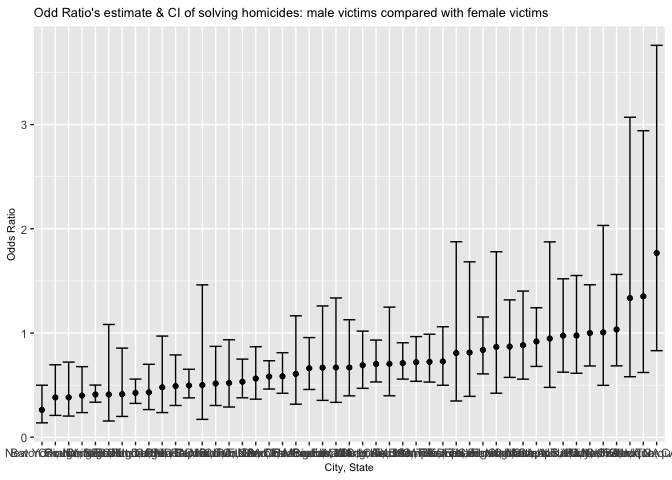
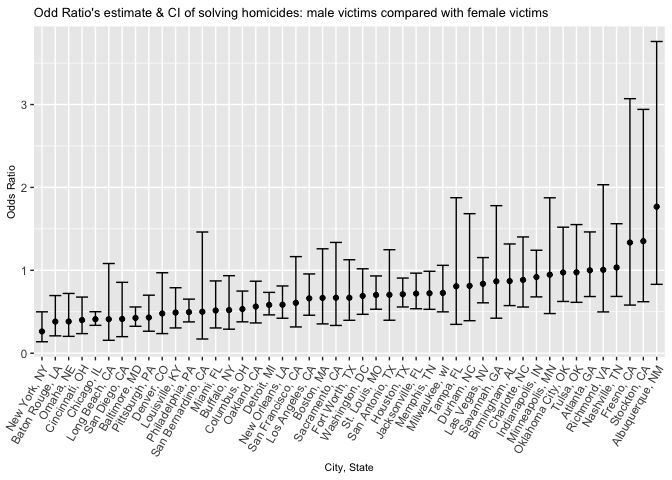
The x axis seemed to be a bit unclear, so I revided the parameter of the x axis in theme(), and updated the plot.

diff --git a/p8105_hw6_sc5154.md b/p8105_hw6_sc5154.md
@@ -116,9 +116,9 @@ homicide_df =
   filter(!(city_state %in% c("Tulsa, AL"))) %>%
   filter(victim_race %in% c("White", "Black")) %>%
   mutate(
-      victim_age = as.numeric(victim_age),
-      victim_sex = as.factor(ifelse(victim_sex == "Unknown", NA, victim_sex)),
-      victim_race = as.factor(victim_race)
+    victim_age = as.numeric(victim_age),
+    victim_sex = as.factor(ifelse(victim_sex == "Unknown", NA, victim_sex)),
+    victim_race = as.factor(victim_race)
   )
 ## Warning in mask$eval_all_mutate(quo): NAs introduced by coercion
 ```
@@ -237,7 +237,8 @@ cities_OR %>%
     y = "Odds Ratio"
   ) + 
   theme(
-   title = element_text(size = 8)
+    title = element_text(size = 8),
+    axis.text.x = element_text(angle = 60, hjust = 1)
   )
 ```
 
